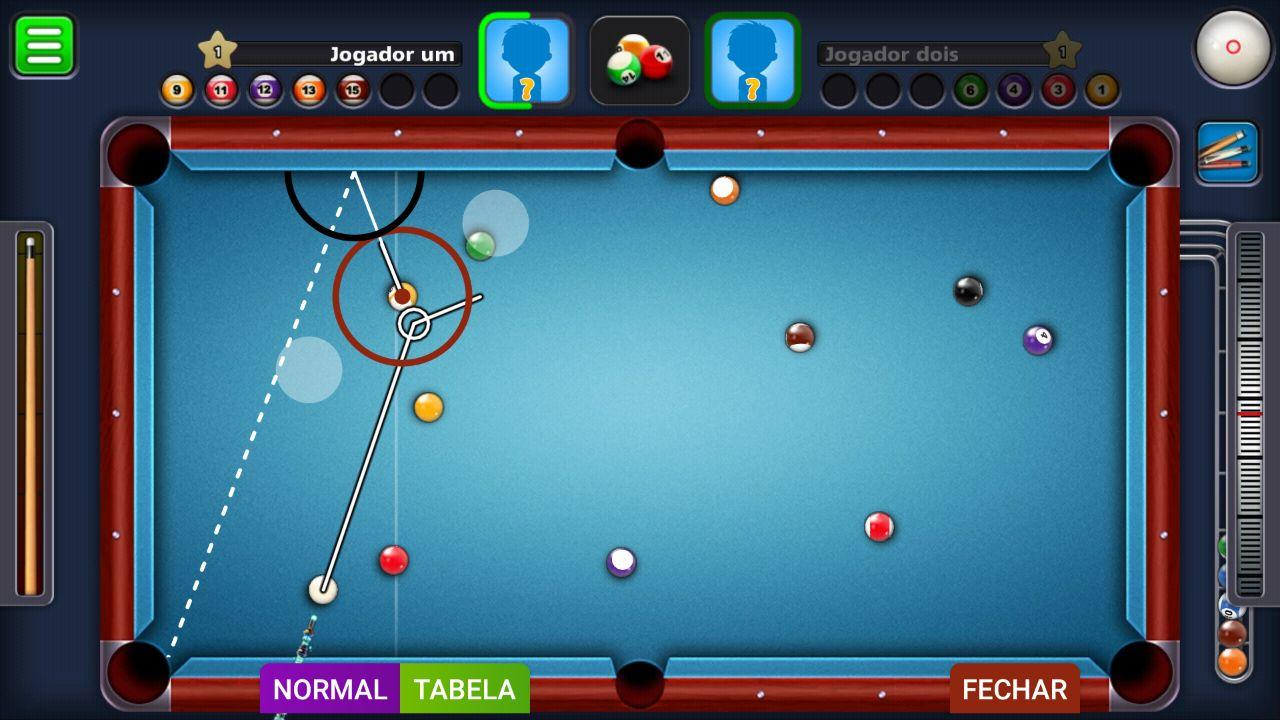
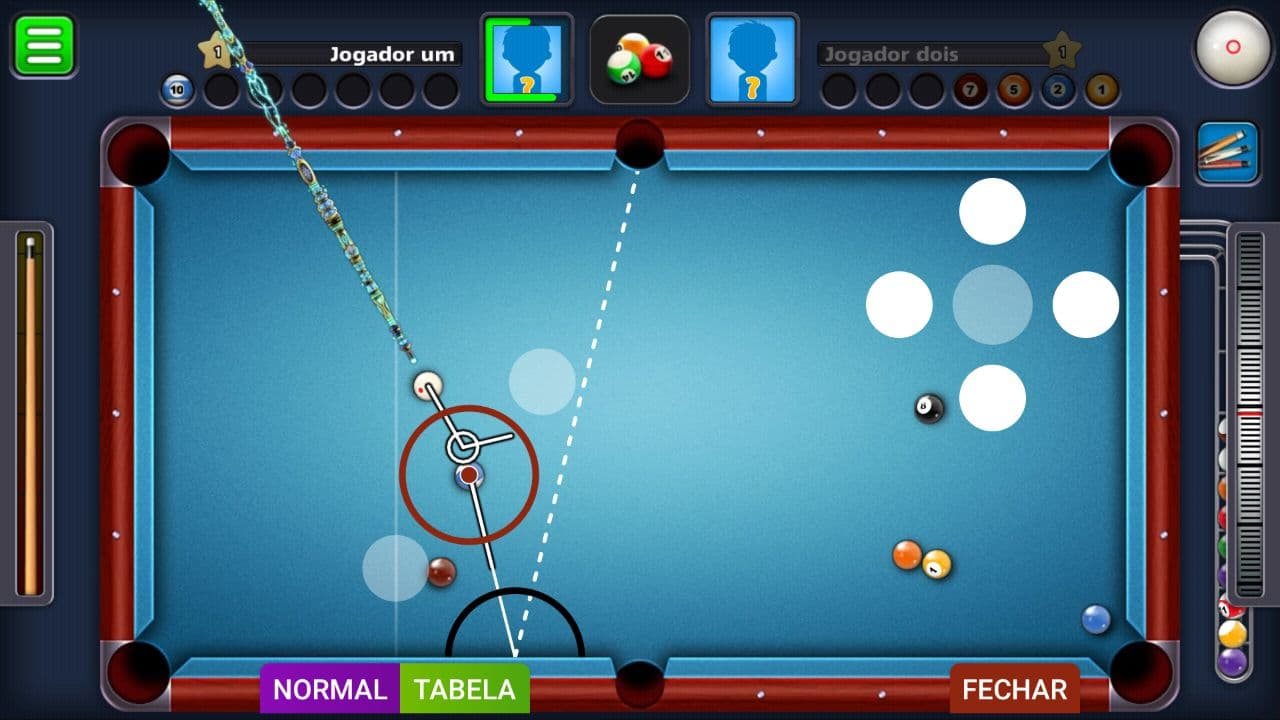
General updates

diff --git a/README.md b/README.md
@@ -1,10 +1,8 @@
 - **Importante**
 
-No momento, é preciso que você faça as alterações necessárias para ajustar o layout à mesa do jogo
+É preciso que você faça as alterações necessárias para ajustar o layout à mesa do jogo
 
-Ainda não implementei uma solução que faça esse ajuste automaticamente em qualquer tamanho de tela
-
-> Anti-ban, apenas se você seguir estes passos
+> Anti-ban, apenas se você seguir estes passos:
 
 Não utilize o mesmo *nome de pacote* ( app.hack.eightballpool )
 
@@ -20,11 +18,9 @@ Não publique na Play Store
 
 - **Important**
 
-At the moment, you need to make the necessary changes to adjust the layout to the game table
+You need to make the necessary changes to adjust the layout to the game table
 
-I have not yet implemented a solution that automatically adjust to any screen size
-
-> Anti-ban, only if you follow these steps
+> Anti-ban, only if you follow these steps:
 
 Do not use the same *package name* ( app.hack.eightballpool )
 
@@ -40,13 +36,7 @@ Do not post on the Play Store
 
 ### Links
 
-https://github.com/jonathansilva/8BallPool/blob/master/app/src/main/res/layout/main.xml#L7
-
-https://github.com/jonathansilva/8BallPool/blob/master/app/src/main/java/app/hack/eightballpool/ViewService.java#L78
-
-https://github.com/jonathansilva/8BallPool/blob/master/app/src/main/java/app/hack/eightballpool/ViewService.java#L88
-
-https://github.com/jonathansilva/8BallPool/blob/master/app/src/main/java/app/hack/eightballpool/ViewService.java#L173
+https://github.com/jonathansilva/8BallPool/blob/master/app/src/main/res/values/dimens.xml
 
 https://github.com/jonathansilva/8BallPool/blob/master/app/src/main/res/values/strings.xml#L2
 
@@ -67,9 +57,5 @@ https://github.com/jonathansilva/8BallPool/blob/master/settings.gradle#L2
 ![photo_2020-07-12_21-47-06](https://user-images.githubusercontent.com/33843748/87260689-80483180-c489-11ea-9672-f898fca5da85.jpg)
 
 > Mode: Table
-
-![photo_2020-07-12_21-47-03](https://user-images.githubusercontent.com/33843748/87260699-8a6a3000-c489-11ea-9cc4-d1c9609cd4a4.jpg)
-
-> Mode: Table ( update )
 
 ![photo_2020-11-09_14-48-52](https://user-images.githubusercontent.com/33843748/98577678-0ee38880-229b-11eb-935f-416626b061b8.jpg)
